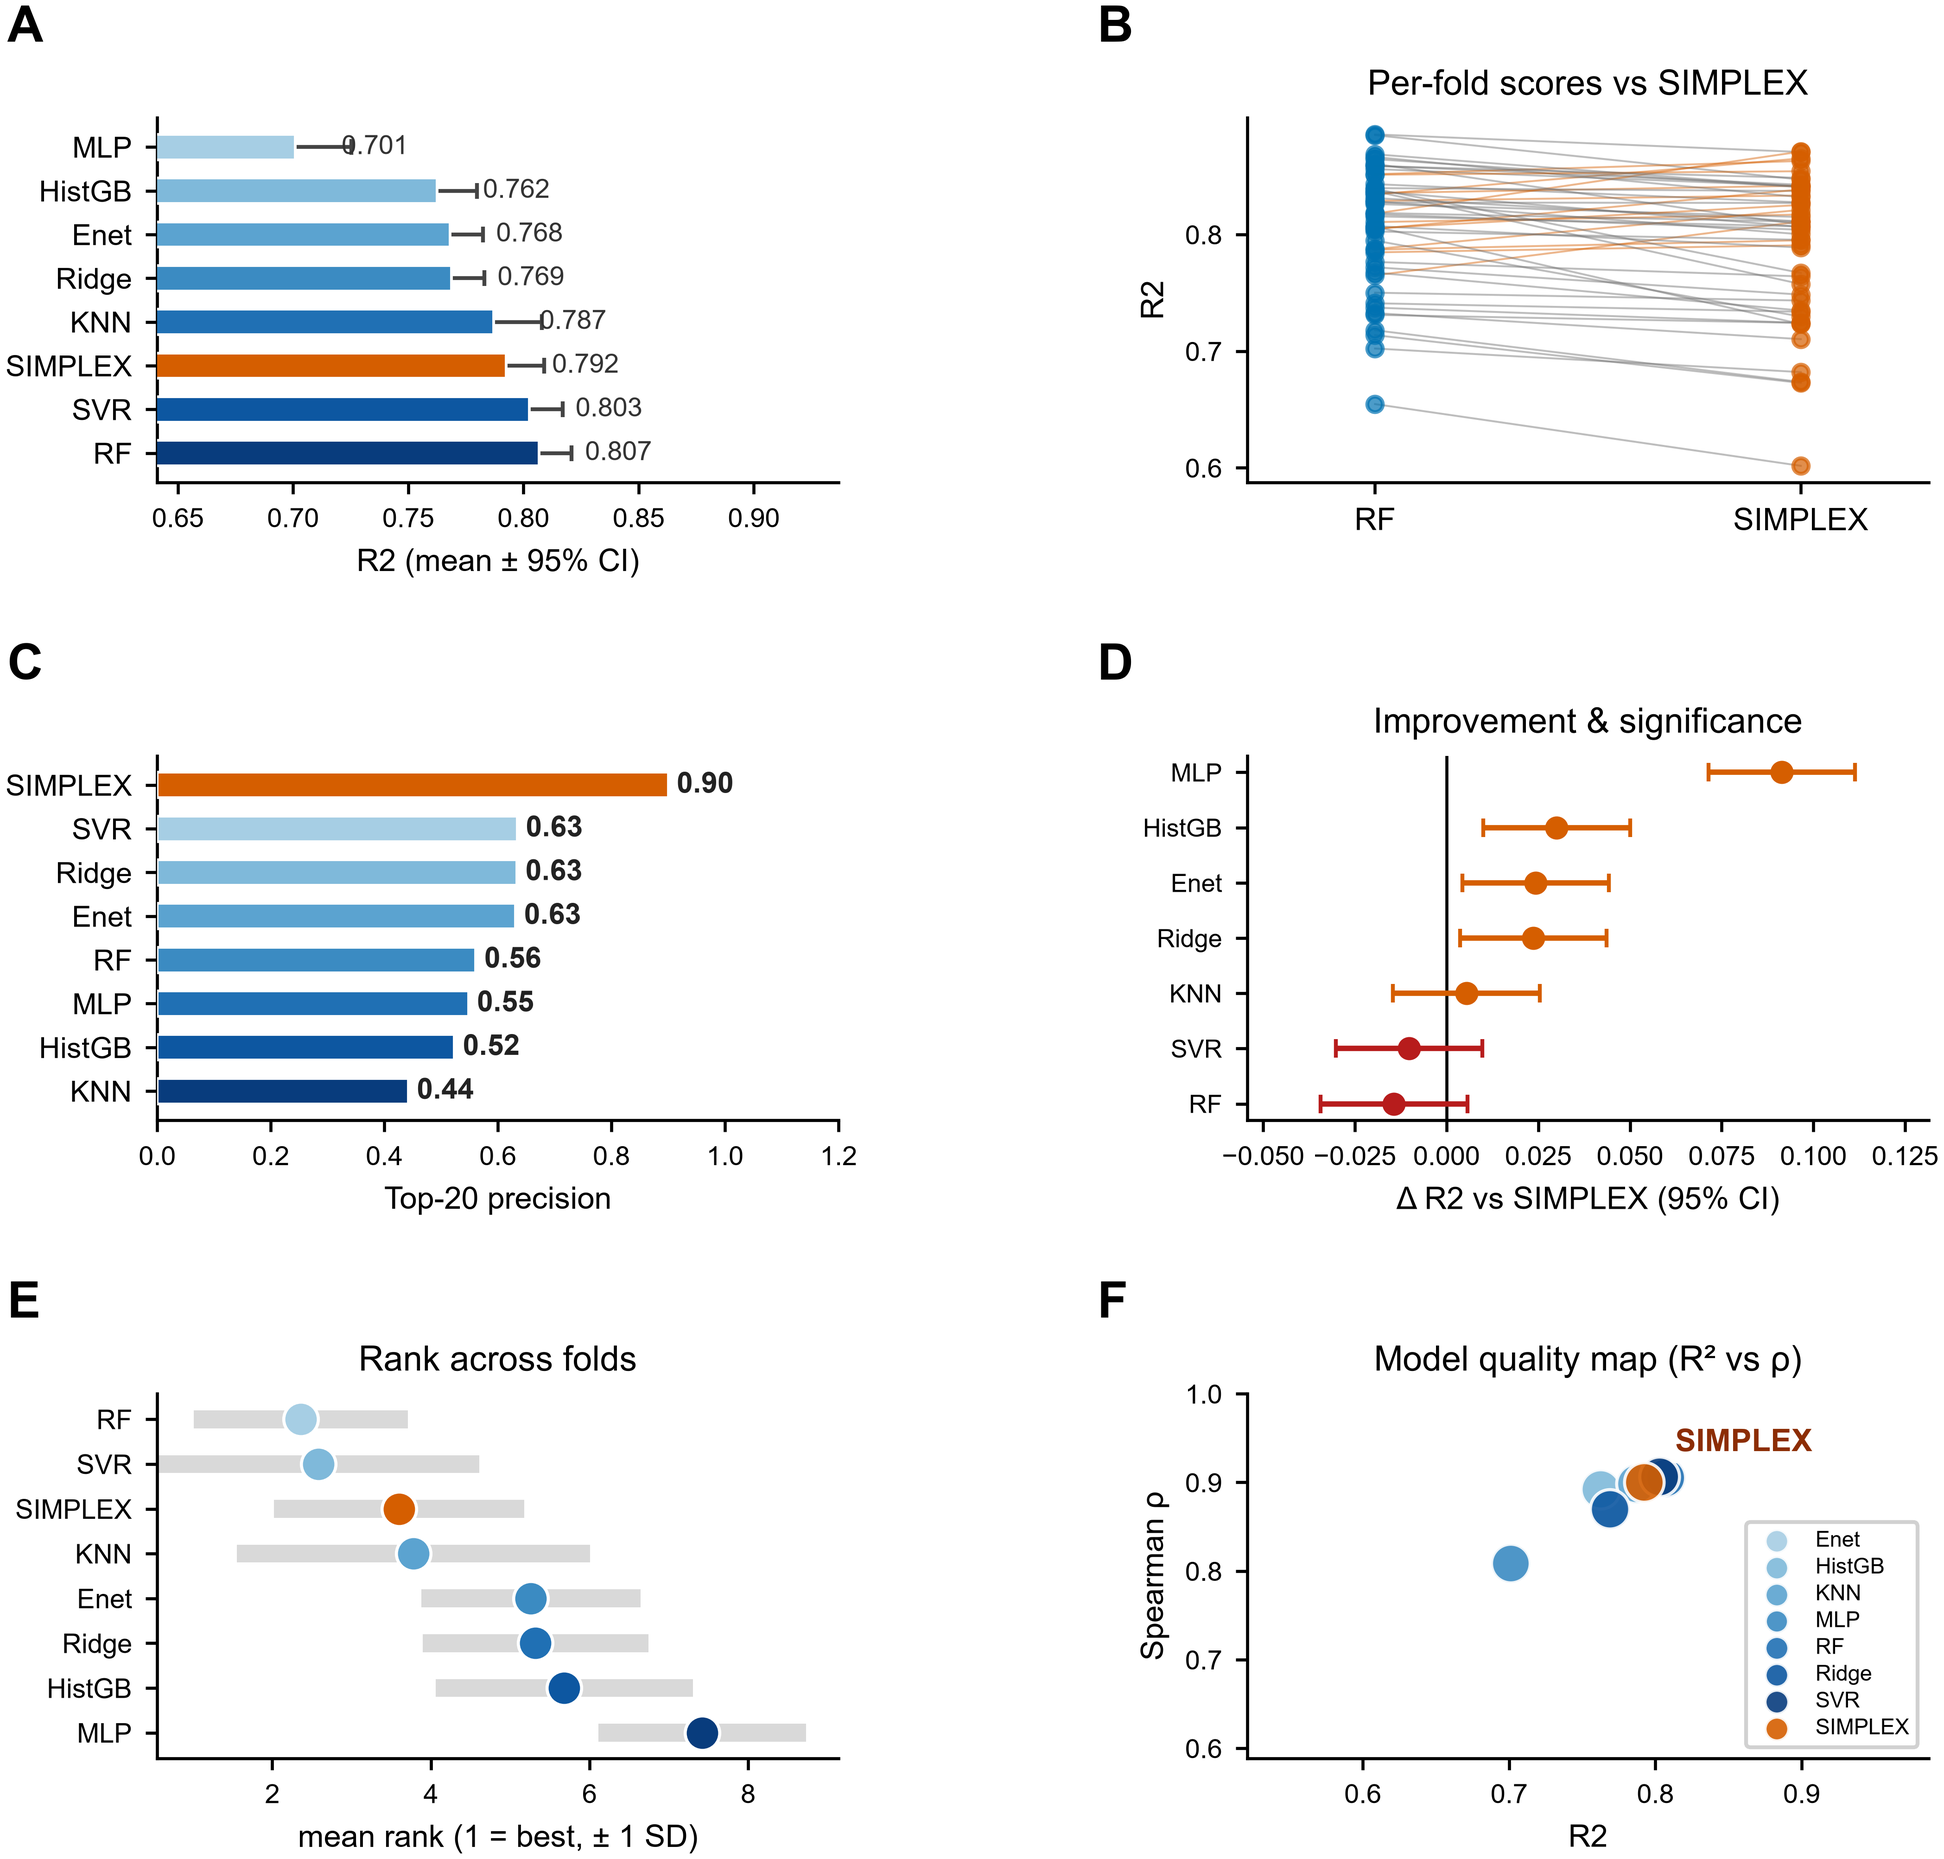
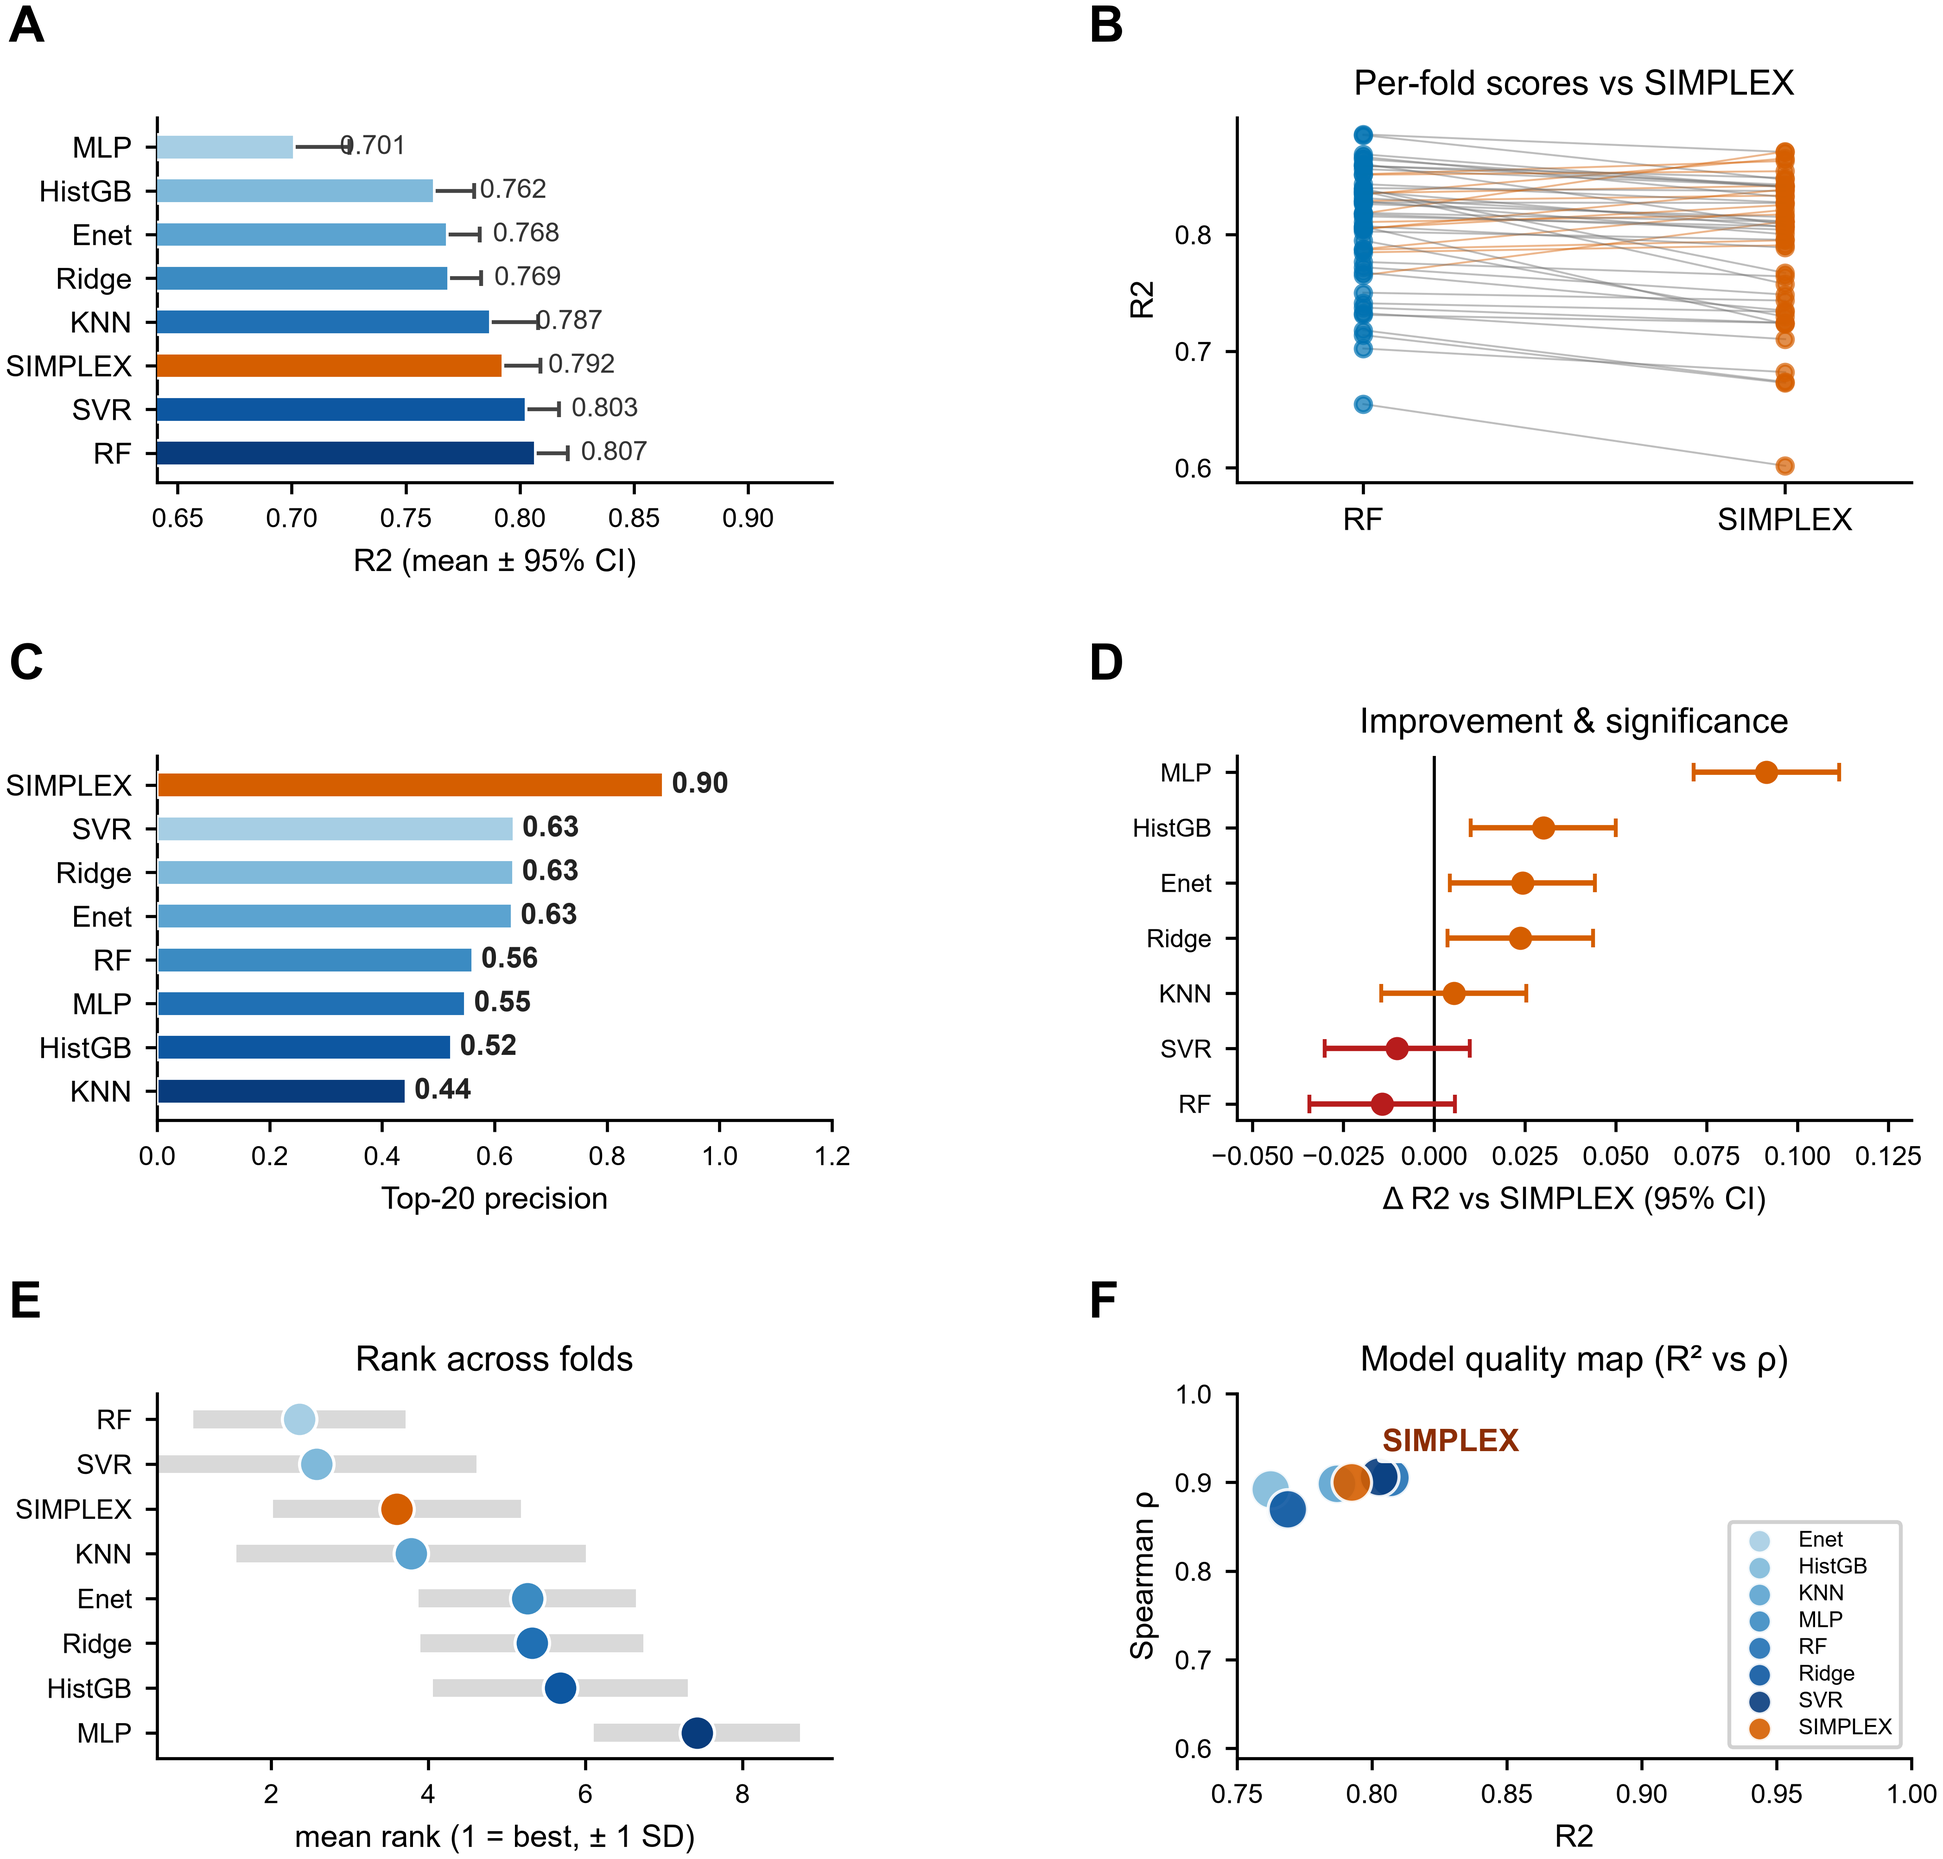
v10b: fig5F x-axis fixed to 0.75-1.0 (zoom in on R^2 to amplify model differences)

diff --git a/code/figures.py b/code/figures.py
@@ -741,8 +741,8 @@ def fig5(ctx: Ctx) -> None:
         except Exception:
             _note(ax)
             return
-        rmin = max(0.0, float(r2.min()) - 0.18)
-        rmax = min(1.0, float(r2.max()) + 0.18)
+        rmin = 0.75
+        rmax = 1.0
         smin = max(0.0, float(spearman.min()) - 0.22)
         smax = min(1.0, float(spearman.max()) + 0.22)
         n_b = len(r2) - 1
